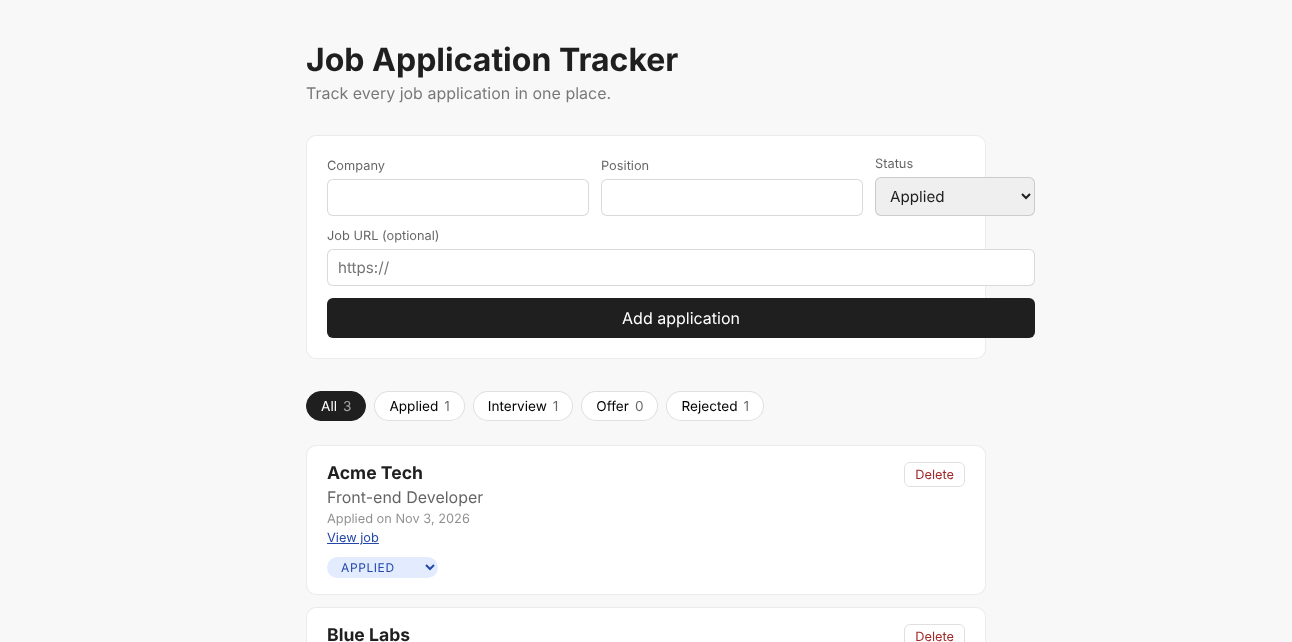
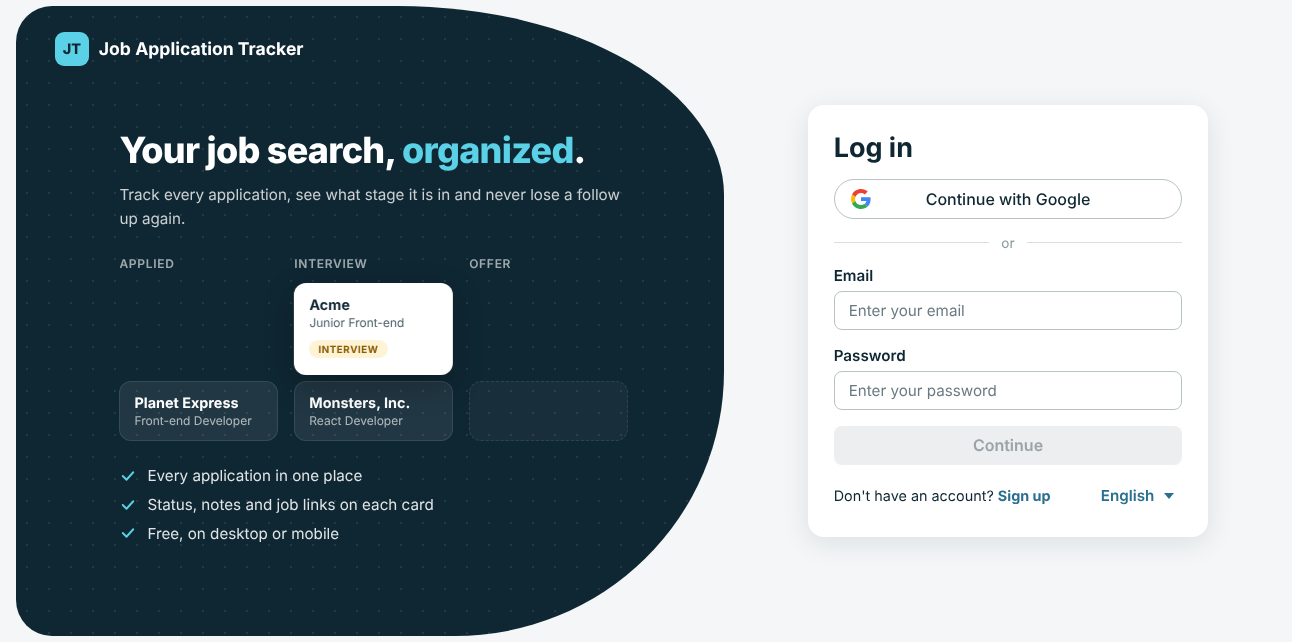
feat: update skills and job tracker project

diff --git a/index.html b/index.html
@@ -151,7 +151,7 @@
         <div class="sobre-expandido">
             <p data-i18n="sobre-texto-2">Antes da programação, fui Bombeiro Civil e prestei serviço como Bombeiro Militar em cidades da região. Fui instrutor em uma escola de formação de Bombeiros Civis e fiz trabalhos voluntários em escolas, ensinando sobre a Lei Lucas (Lei nº 13.722). Depois, como inspetor de segurança e saúde, supervisionei mais de 800 alunos e cerca de 50 colaboradores. Essas experiências me ensinaram a lidar com pressão, me comunicar com clareza e manter a calma em qualquer situação.</p>
 
-            <p data-i18n="sobre-texto-3">Movido pela vontade de crescer, mergulhei na programação, algo que sempre gostei, e me formei pela DevClub. Hoje sigo construindo projetos reais, como o site da BioGarden para um cliente e o Job Application Tracker em React e TypeScript, e estudo todos os dias para evoluir como desenvolvedor.</p>
+            <p data-i18n="sobre-texto-3">Movido pela vontade de crescer, mergulhei na programação, algo que sempre gostei, e me formei pela DevClub. Hoje sigo construindo projetos reais, como o site da BioGarden para um cliente e o Job Application Tracker, um app full stack com React, Node.js e PostgreSQL, e estudo todos os dias para evoluir como desenvolvedor.</p>
         </div>
 
         <div class="curiosidades">
@@ -184,7 +184,7 @@
             </div>
             <div class="bloco">
                 <h3 data-i18n="skills-back-titulo">Back-End</h3>
-                <p data-i18n="skills-back-texto">Conhecimentos em Node.js e MySQL, aplicando lógica, consultas e manipulação de dados.</p>
+                <p data-i18n="skills-back-texto">Construo APIs REST com Node.js, Express e TypeScript, usando banco PostgreSQL, autenticação com senha e com Google, e testes automatizados rodando a cada push.</p>
             </div>
         </div>
 
@@ -225,6 +225,22 @@
                 <img src="./assets/img/typescript.svg" alt="TypeScript">
                 <span>TypeScript</span>
             </div>
+            <div class="icone">
+                <img src="./assets/img/express.svg" alt="Express">
+                <span>Express</span>
+            </div>
+            <div class="icone">
+                <img src="./assets/img/postgresql.svg" alt="PostgreSQL">
+                <span>PostgreSQL</span>
+            </div>
+            <div class="icone">
+                <img src="./assets/img/vercel.svg" alt="Vercel">
+                <span>Vercel</span>
+            </div>
+            <div class="icone">
+                <img src="./assets/img/githubactions.svg" alt="GitHub Actions">
+                <span>GitHub Actions</span>
+            </div>
         </div>
 
 
@@ -263,12 +279,14 @@
                 <div class="legenda-hover">
                     <h3 data-i18n="projeto-nome3">Job Application Tracker</h3>
                     <span data-i18n="projeto-legenda3">
-                        Painel para organizar candidaturas a vagas, com filtro por status e dados salvos no navegador.<br>
+                        Painel full stack para organizar candidaturas, com login (senha ou Google), dashboard, agenda de entrevistas e tradução em português e inglês.<br>
                         Desenvolvido com
                     </span>
                     <div class="icones-legenda">
                         <img src="./assets/img/react.png" alt="React" class="icon-tec">
                         <img src="./assets/img/typescript.svg" alt="TypeScript" class="icon-tec">
+                        <img src="./assets/img/nodejs.png" alt="Node.js" class="icon-tec">
+                        <img src="./assets/img/postgresql.svg" alt="PostgreSQL" class="icon-tec">
                     </div>
                 </div>
             </div>
